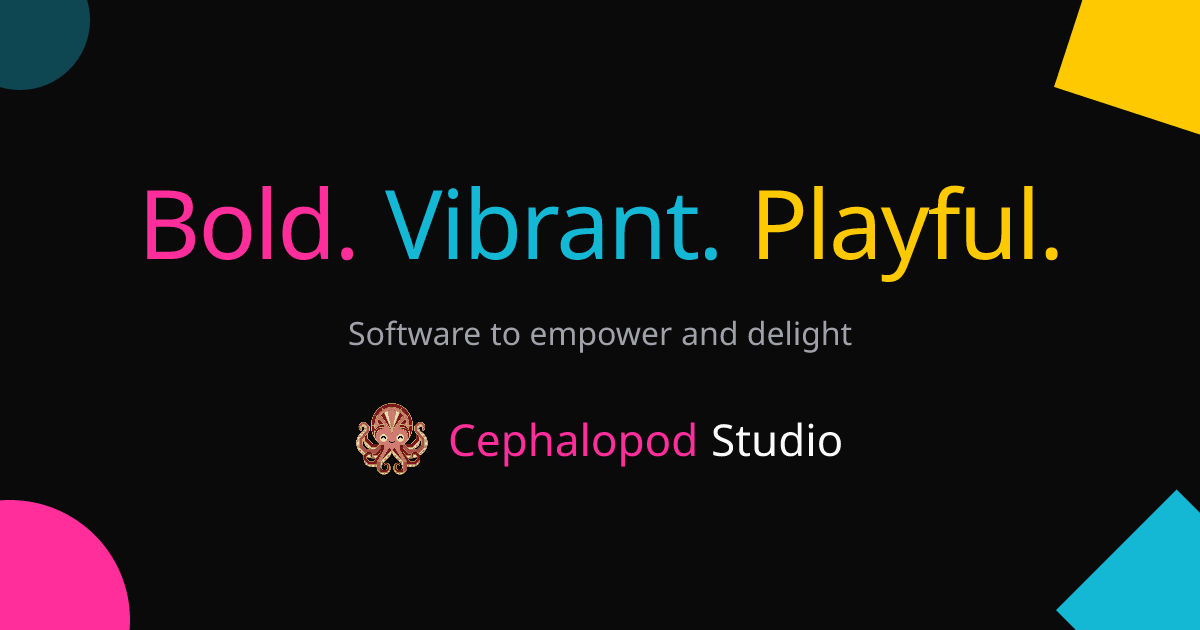
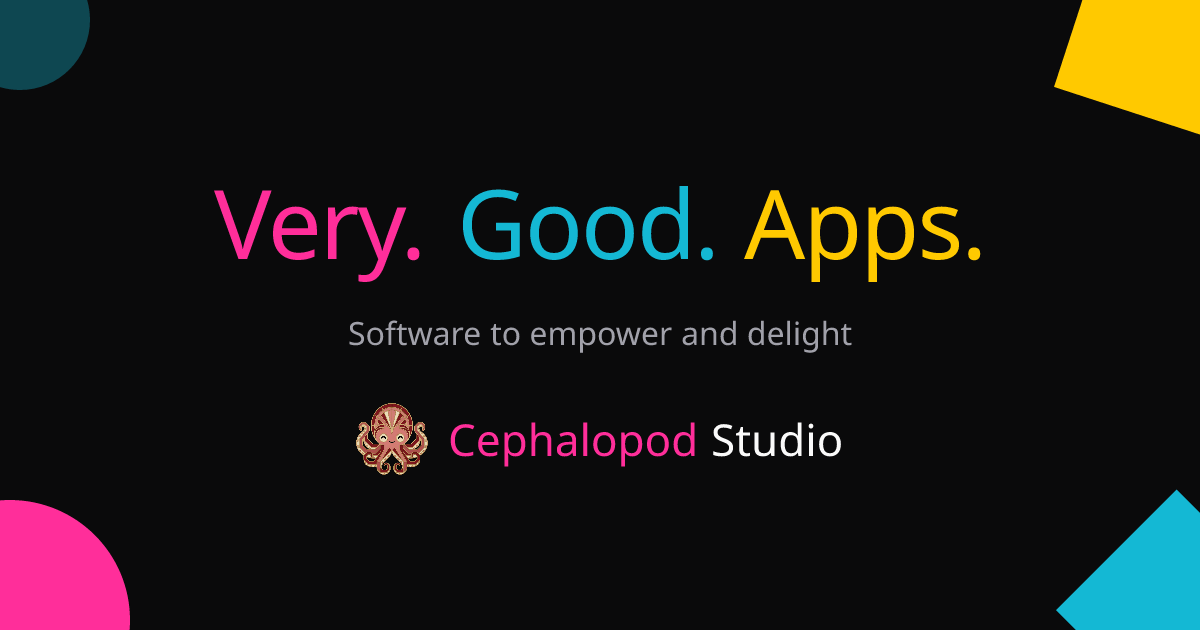
Fix click-blocked CTAs, retire mouse parallax fallout, new headline
- Decorative absolute overlays (stripes, dots, tint layers) now have
  pointer-events-none — the home CTA section's stripe layer sat above
  its unpositioned content container and swallowed clicks on 'Book Time
  With Us' / 'Or just say hi'
- Hero headline changed from 'Bold. Vibrant. Playful.' to
  'Very. Good. Apps.' — OG image regenerated to match

Changed region(s): [[0.1233, 0.2714, 0.8942, 0.4524]]

diff --git a/components/home-client.tsx b/components/home-client.tsx
@@ -45,8 +45,8 @@ export default function HomeClient({ projects, posts }: HomeClientProps) {
 
       {/* Introduction */}
       <section className="relative py-20 px-4 overflow-hidden">
-        <div className="absolute inset-0 bg-muted/30"></div>
-        <div className="absolute inset-0 memphis-dots opacity-5"></div>
+        <div className="absolute inset-0 bg-muted/30 pointer-events-none"></div>
+        <div className="absolute inset-0 memphis-dots opacity-5 pointer-events-none"></div>
         <motion.div
           initial={{ opacity: 0, y: 50 }}
           animate={{ opacity: 1, y: 0 }}
@@ -77,8 +77,8 @@ export default function HomeClient({ projects, posts }: HomeClientProps) {
 
       {/* Featured Projects */}
       <section id="projects" ref={targetRef} className="py-20 relative overflow-hidden">
-        <div className="absolute inset-0 bg-muted/50"></div>
-        <div className="absolute inset-0 memphis-dots opacity-5"></div>
+        <div className="absolute inset-0 bg-muted/50 pointer-events-none"></div>
+        <div className="absolute inset-0 memphis-dots opacity-5 pointer-events-none"></div>
         <div className="container relative mx-auto px-4">
           <motion.div style={{ opacity, y }} className="mb-12 text-center">
             <h2 className="text-4xl md:text-5xl font-bold mb-4 text-foreground">Featured Projects</h2>
@@ -137,7 +137,7 @@ export default function HomeClient({ projects, posts }: HomeClientProps) {
 
       {/* CTA */}
       <section className="py-20 bg-muted relative overflow-hidden">
-        <div className="absolute inset-0 memphis-stripes opacity-10"></div>
+        <div className="absolute inset-0 memphis-stripes opacity-10 pointer-events-none"></div>
         <div className="container mx-auto px-4 text-center">
           <motion.div
             initial={{ opacity: 0, scale: 0.9 }}

diff --git a/components/hero-section.tsx b/components/hero-section.tsx
@@ -8,7 +8,7 @@ export default function HeroSection() {
   return (
     <section className="relative h-screen flex items-center justify-center overflow-hidden bg-background">
       {/* Background Memphis patterns */}
-      <div className="absolute inset-0 memphis-dots opacity-5"></div>
+      <div className="absolute inset-0 memphis-dots opacity-5 pointer-events-none"></div>
 
       {/* Animated Memphis shapes — hidden on small screens where they collide with the headline */}
       <div className="hidden md:block absolute top-[15%] -left-16 w-48 h-48 memphis-shape">
@@ -38,8 +38,8 @@ export default function HeroSection() {
             animate={{ opacity: 1, y: 0 }}
             transition={{ duration: 0.8, delay: 0.2 }}
           >
-            <span className="text-primary">Bold.</span> <span className="text-secondary">Vibrant.</span>{" "}
-            <span className="text-accent">Playful.</span>
+            <span className="text-primary">Very.</span> <span className="text-secondary">Good.</span>{" "}
+            <span className="text-accent">Apps.</span>
           </motion.h1>
 
           <motion.p

diff --git a/components/project-detail.tsx b/components/project-detail.tsx
@@ -308,7 +308,7 @@ export default function ProjectDetail({ project }: { project: ProjectDetailData 
           transition={{ duration: 0.5 }}
           className="bg-muted rounded-lg p-10 text-center relative overflow-hidden"
         >
-          <div className="absolute inset-0 memphis-stripes opacity-10"></div>
+          <div className="absolute inset-0 memphis-stripes opacity-10 pointer-events-none"></div>
           <div className="relative">
             <h2 className="text-3xl md:text-4xl font-bold mb-6">
               Try <span className="text-primary">{project.title}</span>

diff --git a/app/layout.tsx b/app/layout.tsx
@@ -34,7 +34,7 @@ export const metadata: Metadata = {
         url: "/og.png",
         width: 1200,
         height: 630,
-        alt: "Cephalopod Studio — Bold. Vibrant. Playful.",
+        alt: "Cephalopod Studio — Very. Good. Apps.",
       },
     ],
   },
